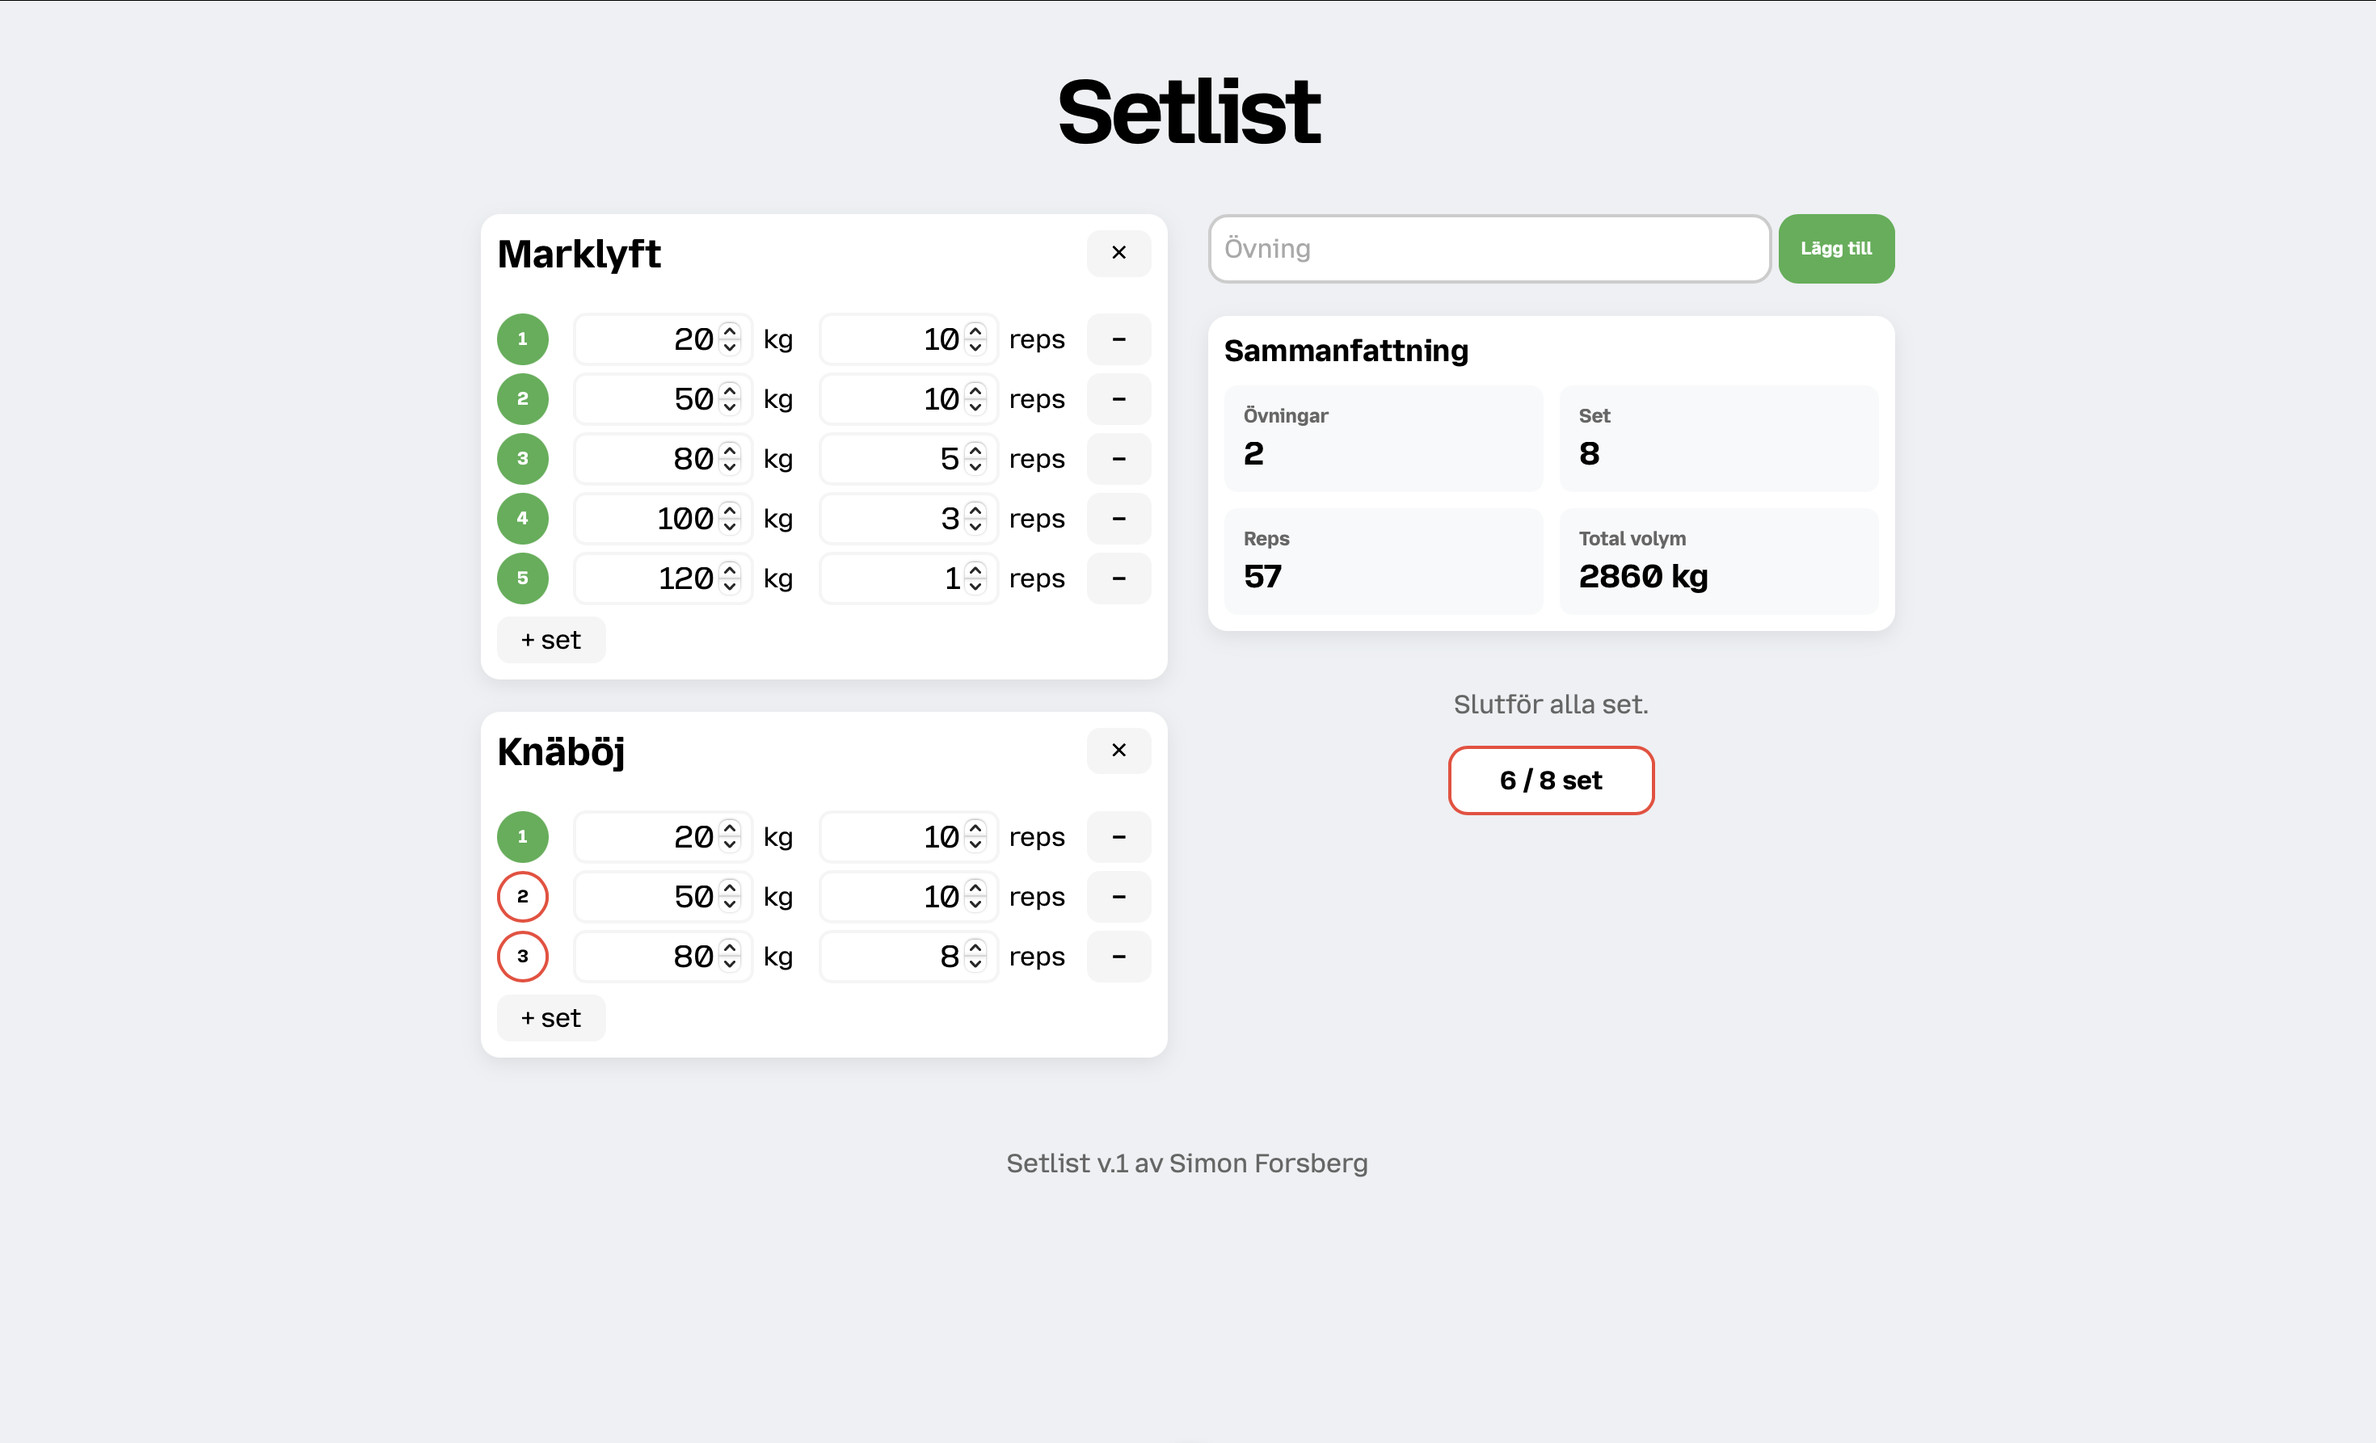
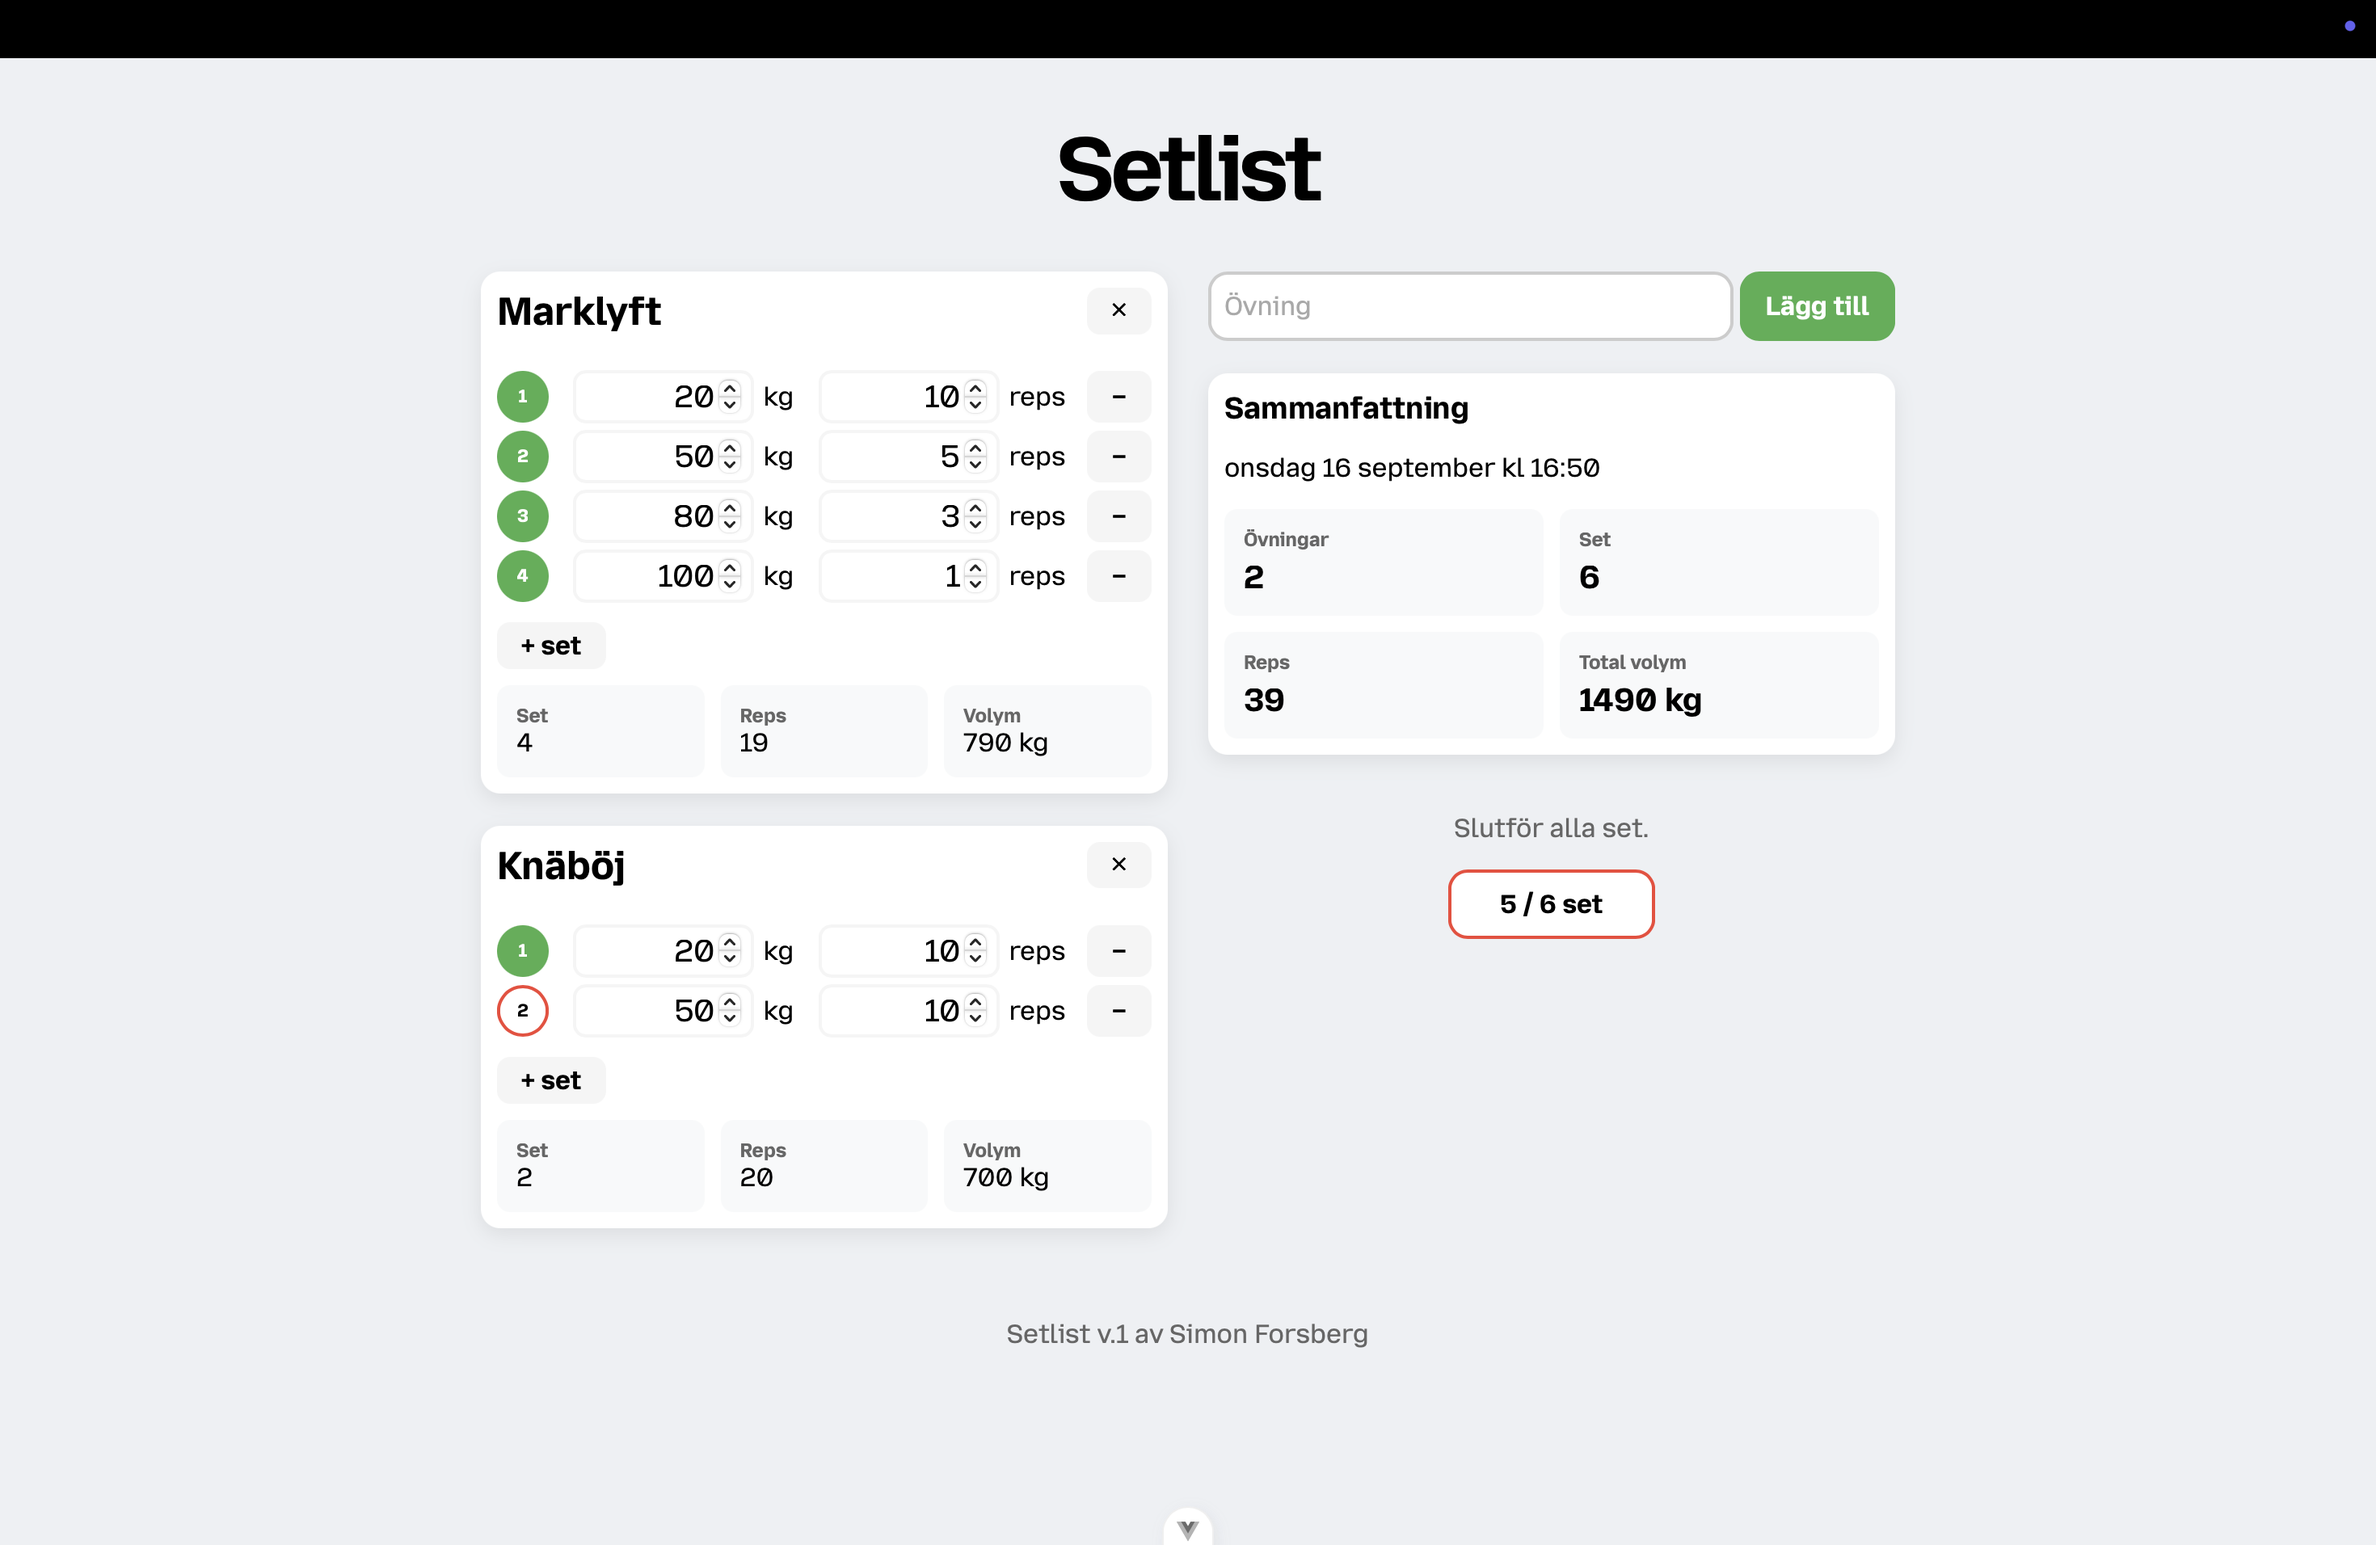
Add summary details for exercises in README

diff --git a/README.md b/README.md
@@ -10,6 +10,10 @@ Ett webbaserat träningsloggverktyg byggt med Vue 3 och Vite. Med applikationen 
 - Lägg till och ta bort set per övning
 - Ange vikt (kg) och antal repetitioner för varje set
 - Markera enskilda set som klara
+- Automatisk sammanfattning av varje övning:
+  - antal set
+  - antal repetitioner
+  - total volym (kp x reps)
 - Automatisk sammanfattning av passet:
   - träningspassets veckodag, datum och starttid
   - antal övningar
